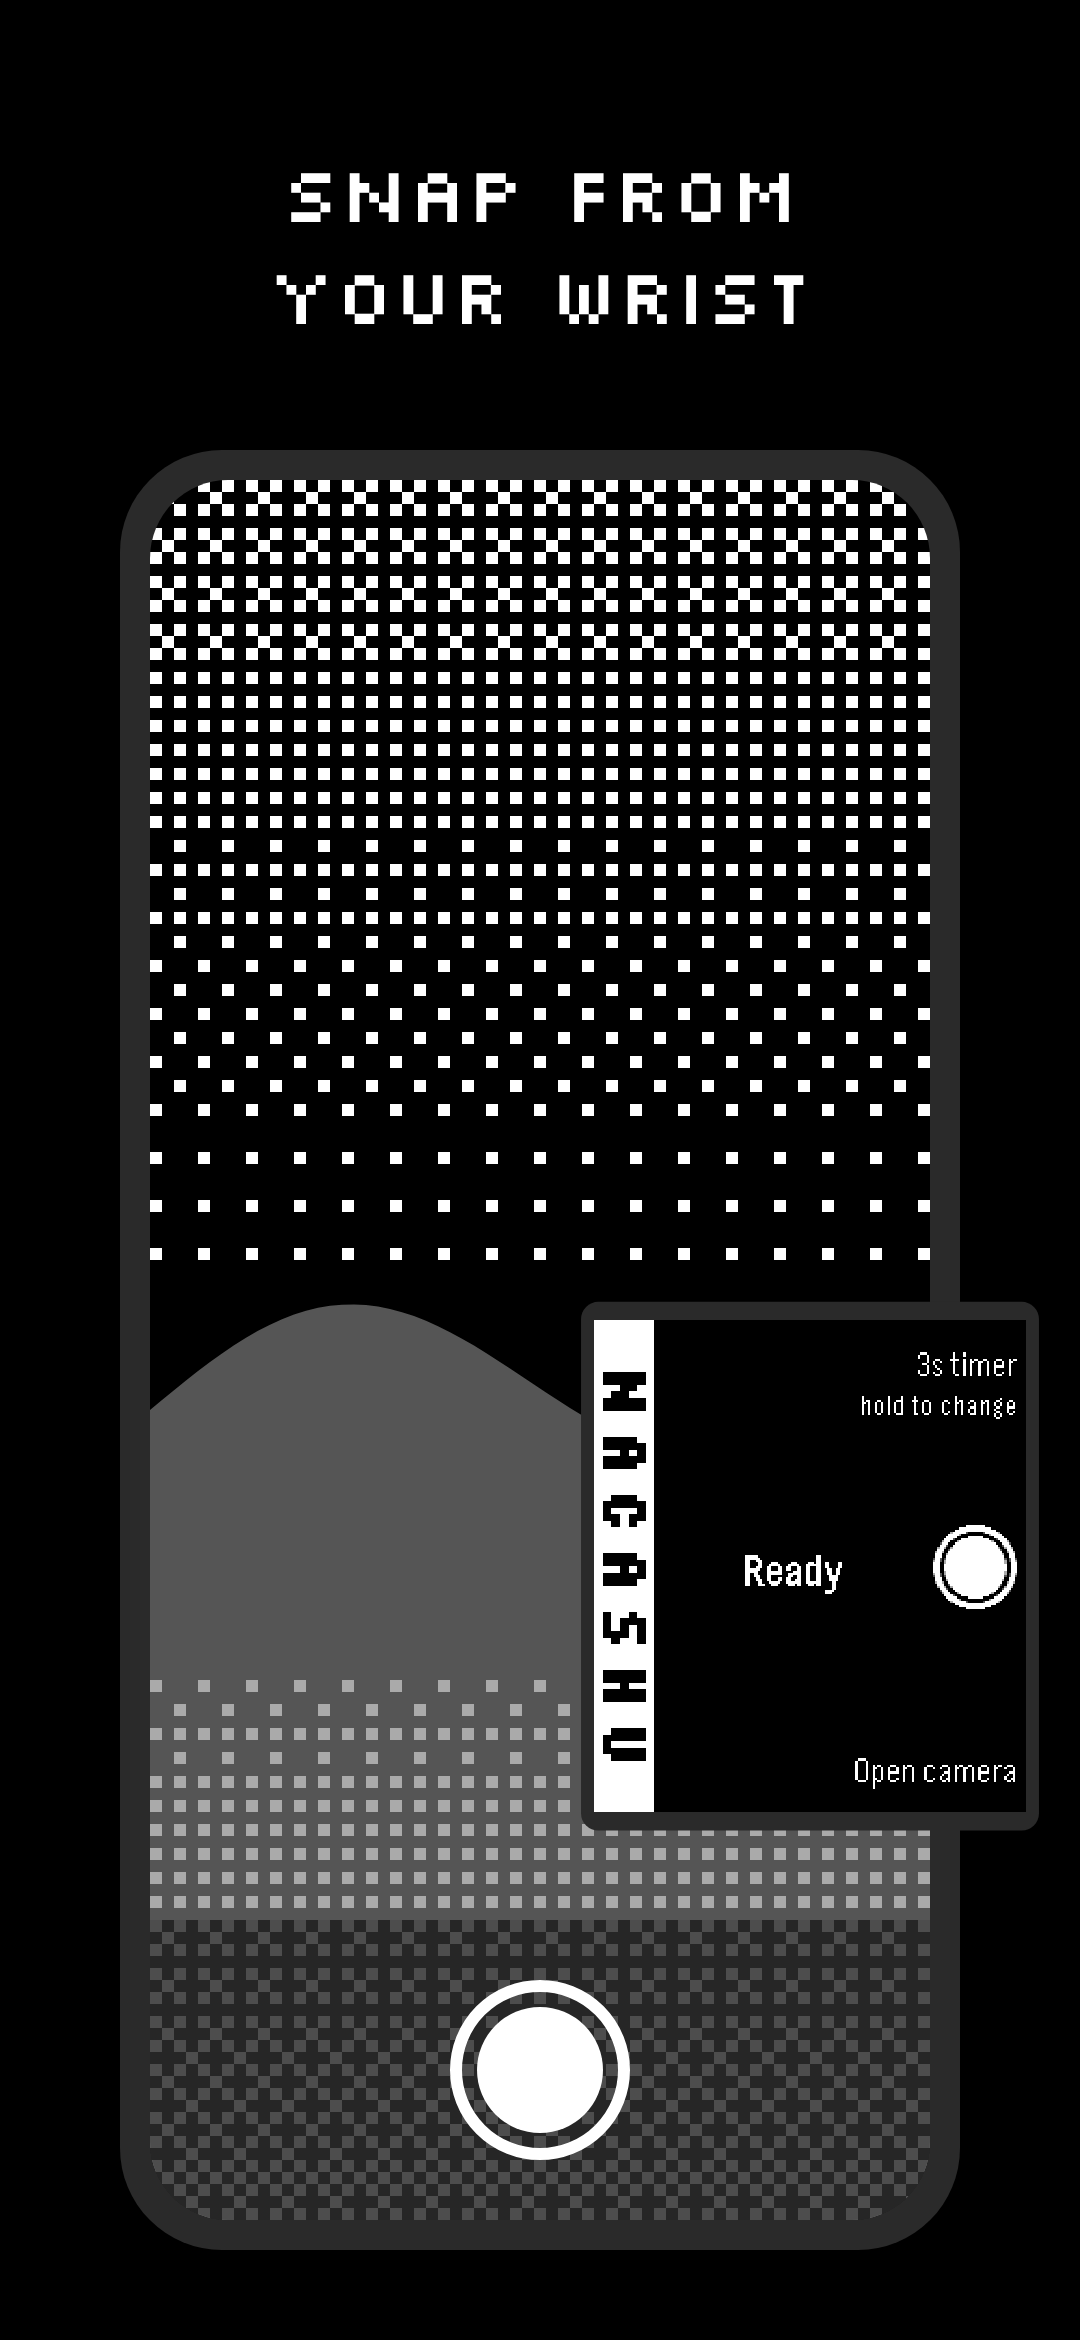
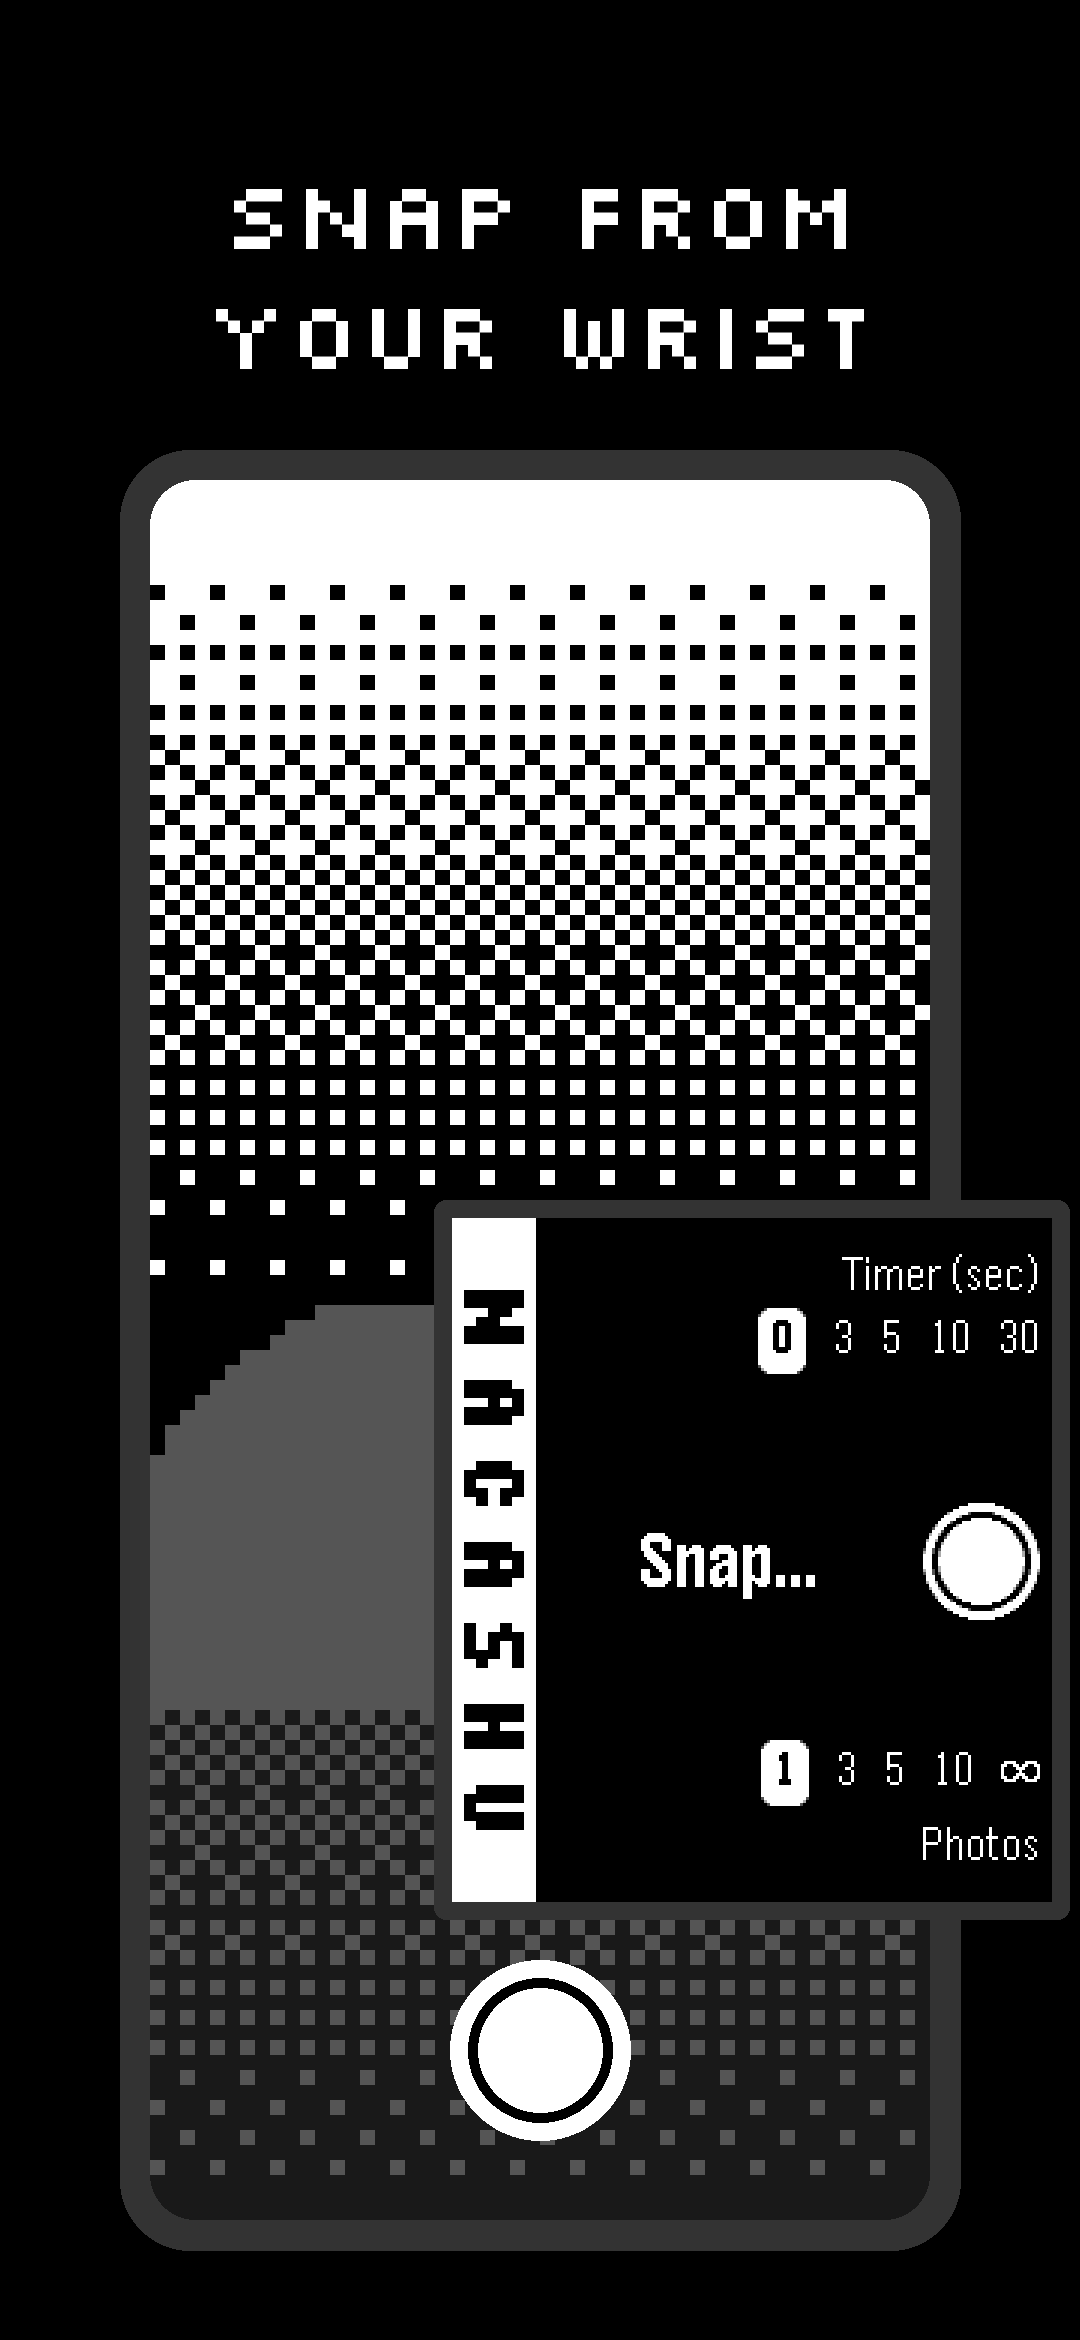
Redraw Play store images from the current watchapp
watch/tools/make_store_images.py draws the icon, feature graphic and the
three watch screenshots from docs/icon.png and the CI screenshots in
docs/, so they can be redrawn when the watchapp changes.

Claude-Session: https://claude.ai/code/session_016qf2GgT2tLT2mnJt2QRVqN

diff --git a/watch/tools/make_store_images.py b/watch/tools/make_store_images.py
@@ -1,0 +1,120 @@
+# Usage: make_store_images.py PIXEL_FONT SANS_FONT [OUT_DIR]
+# Redraws the Google Play images in fastlane/metadata/android/en-US/images/ from the
+# watchapp screenshots in docs/ (kept up to date by CI) and the 32x32 icon in docs/icon.png.
+# Run it after the watchapp's look changes. Fonts aren't committed; use Silkscreen
+# (https://fonts.google.com/specimen/Silkscreen) and any plain sans such as Inter.
+# Phone app screenshots (4-*.png onwards) are real captures and are left alone.
+import sys
+from pathlib import Path
+from PIL import Image, ImageDraw, ImageFont
+
+ROOT = Path(__file__).resolve().parents[2]
+DOCS = ROOT / "docs"
+pixel_font, sans_font = sys.argv[1], sys.argv[2]
+out = Path(sys.argv[3]) if len(sys.argv) > 3 else ROOT / "fastlane/metadata/android/en-US/images"
+
+BLACK, WHITE, GREY, DARK = (0, 0, 0), (255, 255, 255), (85, 85, 85), (51, 51, 51)
+BAYER = [[0, 8, 2, 10], [12, 4, 14, 6], [3, 11, 1, 9], [15, 7, 13, 5]]
+
+
+def font(path, size):
+    return ImageFont.truetype(path, size)
+
+
+def screen(name, scale):
+    img = Image.open(DOCS / f"{name}.png").convert("RGB")
+    return img.resize((img.width * scale, img.height * scale), Image.NEAREST)
+
+
+def watch(img, scale, round_screen=False, pad=None):
+    """The screenshot inside a plain dark bezel, like the watch seen head-on."""
+    pad = 6 * scale if pad is None else pad
+    w, h = img.width + 2 * pad, img.height + 2 * pad
+    body = Image.new("RGBA", (w, h), (0, 0, 0, 0))
+    d = ImageDraw.Draw(body)
+    if round_screen:
+        d.ellipse((0, 0, w - 1, h - 1), fill=DARK)
+        mask = Image.new("L", img.size, 0)
+        ImageDraw.Draw(mask).ellipse((0, 0, img.width - 1, img.height - 1), fill=255)
+        body.paste(img, (pad, pad), mask)
+    else:
+        d.rounded_rectangle((0, 0, w - 1, h - 1), radius=4 * scale, fill=DARK)
+        body.paste(img, (pad, pad))
+    return body
+
+
+def scene(w, h, cell):
+    """A dithered camera viewfinder: bright sky fading down, a grey hill, dark ground."""
+    gw, gh = w // cell, h // cell
+    small = Image.new("RGB", (gw, gh), BLACK)
+    px = small.load()
+    hill_top = int(gh * 0.48)
+    for y in range(gh):
+        for x in range(gw):
+            t = BAYER[y % 4][x % 4] / 16
+            if y < gh * 0.45:
+                level = 1 - y / (gh * 0.45)
+                px[x, y] = WHITE if level > t else BLACK
+            ground = gh * 0.7
+            hx = (x - gw * 0.3) / (gw * 0.35)
+            hill = hill_top + int(gh * 0.12 * hx * hx)
+            if y >= hill and y < ground:
+                px[x, y] = GREY
+            if y >= ground:
+                level = 0.5 - (y - ground) / (gh - ground) * 0.5
+                px[x, y] = GREY if level > t else (25, 25, 25)
+    return small.resize((gw * cell, gh * cell), Image.NEAREST)
+
+
+def centred(d, y, text, f, w, fill=WHITE):
+    x = (w - d.textlength(text, font=f)) / 2
+    d.text((x, y), text, font=f, fill=fill)
+
+
+def phone_screenshot(lines, shot, path, round_screen=False):
+    W, H = 1080, 2340
+    img = Image.new("RGB", (W, H), BLACK)
+    d = ImageDraw.Draw(img)
+    big = font(pixel_font, 96)
+    for i, line in enumerate(lines):
+        centred(d, 150 + i * 120, line, big, W)
+    # Phone running the camera app.
+    px, py, pw, ph = 120, 450, 840, 1800
+    d.rounded_rectangle((px, py, px + pw, py + ph), radius=70, fill=DARK)
+    view = scene(pw - 60, ph - 60, 15)
+    mask = Image.new("L", view.size, 0)
+    ImageDraw.Draw(mask).rounded_rectangle((0, 0, view.width - 1, view.height - 1), radius=45, fill=255)
+    img.paste(view, (px + 30, py + 30), mask)
+    cx, cy = px + pw // 2, py + ph - 200
+    d.ellipse((cx - 90, cy - 90, cx + 90, cy + 90), fill=WHITE)
+    d.ellipse((cx - 72, cy - 72, cx + 72, cy + 72), fill=BLACK)
+    d.ellipse((cx - 62, cy - 62, cx + 62, cy + 62), fill=WHITE)
+    # The watch, overlapping the phone's right edge.
+    w = watch(screen(shot, 3), 3, round_screen)
+    img.paste(w, (W - w.width - 10, py + ph - w.height - 330), w)
+    img.save(path, optimize=True)
+
+
+def feature_graphic(path):
+    W, H = 1024, 500
+    img = Image.new("RGB", (W, H), BLACK)
+    d = ImageDraw.Draw(img)
+    icon = Image.open(DOCS / "icon.png").convert("RGB").resize((128, 128), Image.NEAREST)
+    img.paste(icon, (48, 48))
+    d.text((64, 205), "NACASHU", font=font(pixel_font, 72), fill=WHITE)
+    d.text((64, 298), "Your Pebble is the shutter.", font=font(sans_font, 26), fill=WHITE)
+    d.text((64, 338), "Your phone's own camera takes the photo.", font=font(sans_font, 22), fill=(170, 170, 170))
+    d.rectangle((64, 392, 160, 398), fill=WHITE)
+    w = watch(screen("emery-1-ready", 2), 2, pad=8)
+    img.paste(w, (W - w.width - 48, (H - w.height) // 2), w)
+    img.save(path, optimize=True)
+
+
+out.mkdir(parents=True, exist_ok=True)
+(out / "phoneScreenshots").mkdir(exist_ok=True)
+Image.open(DOCS / "icon.png").convert("RGB").resize((512, 512), Image.NEAREST).save(out / "icon.png", optimize=True)
+feature_graphic(out / "featureGraphic.png")
+phone_screenshot(["SNAP FROM", "YOUR WRIST"], "emery-2-snap", out / "phoneScreenshots/1-snap.png")
+phone_screenshot(["TIMER AND", "BURSTS"], "emery-3-choices", out / "phoneScreenshots/2-timer.png")
+phone_screenshot(["YOUR CAMERA'S", "OWN PHOTOS"], "gabbro-1-ready", out / "phoneScreenshots/3-processing.png", round_screen=True)
+print("wrote", out)

diff --git a/RELEASING.md b/RELEASING.md
@@ -21,6 +21,8 @@ The listing lives in `fastlane/metadata/android/en-US/` in the layout [fastlane 
 | `images/featureGraphic.png` | Feature graphic | 1024 x 500 PNG |
 | `images/phoneScreenshots/` | Phone screenshots | 2 to 8 |
 
+`icon.png`, `featureGraphic.png` and the watch screenshots (`1-` to `3-`) are drawn from `docs/icon.png` and the watchapp screenshots in `docs/` by `watch/tools/make_store_images.py`. Run it again when the watchapp's look changes: `python3 watch/tools/make_store_images.py Silkscreen-Regular.ttf Inter-SemiBold.otf`. Phone app screenshots (`4-` onwards) are real captures from a phone.
+
 Keep "Pebble" out of the app name (Pebble's trademark rules); saying the app works with Pebble watches in the description is fine.
 
 ## First-time setup in Play Console
